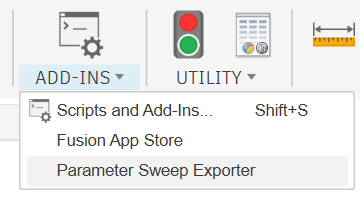
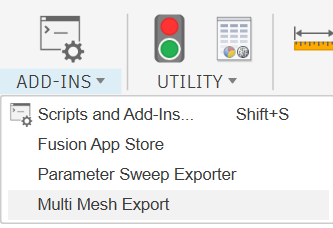
Update README

diff --git a/README.md b/README.md
@@ -1,6 +1,7 @@
 # Multi Mesh Export – Fusion 360 Add-in
-
 Batch-export multiple STL files from a Fusion 360 design in one operation.
+
+![Multi Mesh Export Demo](/resources/demo.gif)
 
 ## Features
 - **Batch Export:** Select multiple bodies or use "Select All" to export them at once.
@@ -19,7 +20,7 @@ Batch-export multiple STL files from a Fusion 360 design in one operation.
 ## Installation (option B)
 1. Clone the repo and extract the folder.
 2. In Fusion go to `Utilities > Add-Ins` and click the icon. It should look like this:
-![alt text](/resources/ScreenshotA.png)
+![alt text](/resources/ScreenshotB.png)
 3. In the Add-in window, click the plus symbol. Then click `Script or add-in from device` and select the program folder.
 4. Click the dropdown on utilities and run the program in your file that you want to export.
-![alt text](/resources/ScreenshotB.png)
+![alt text](/resources/ScreenshotA.png)
